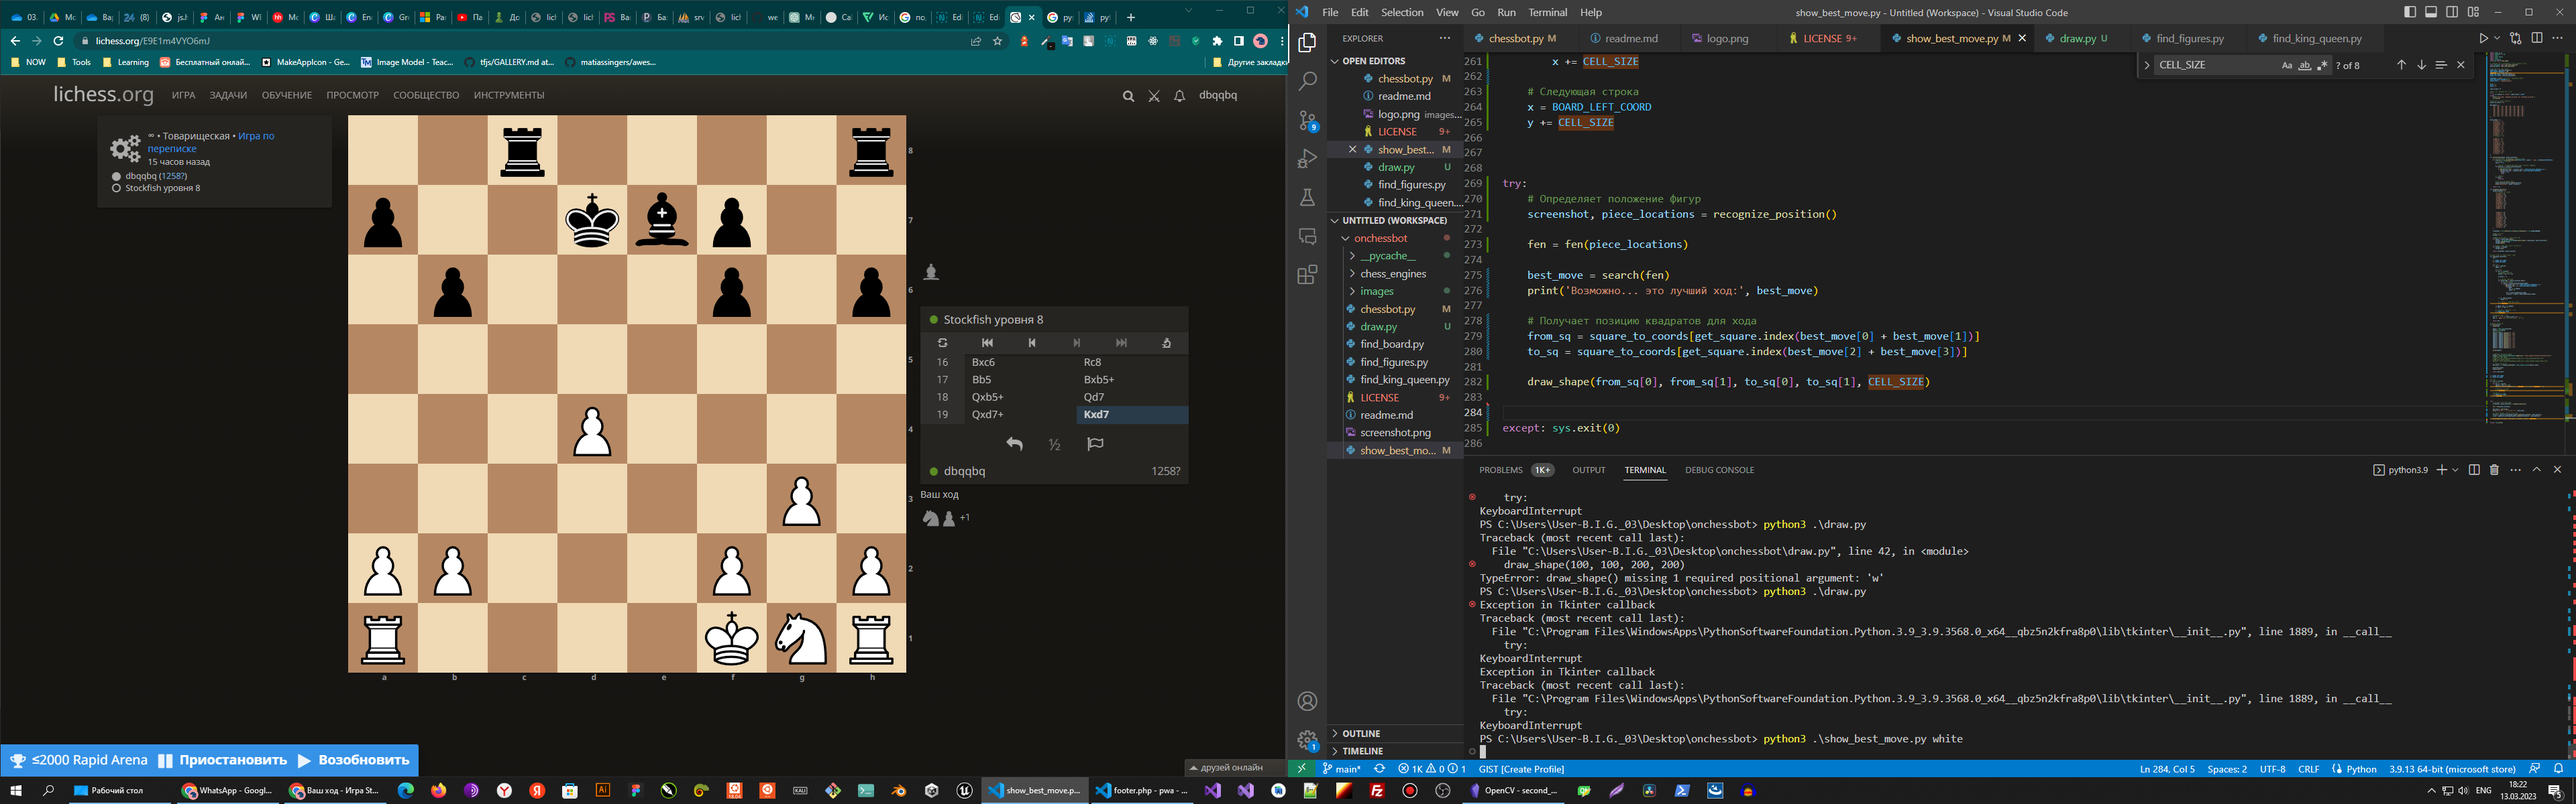
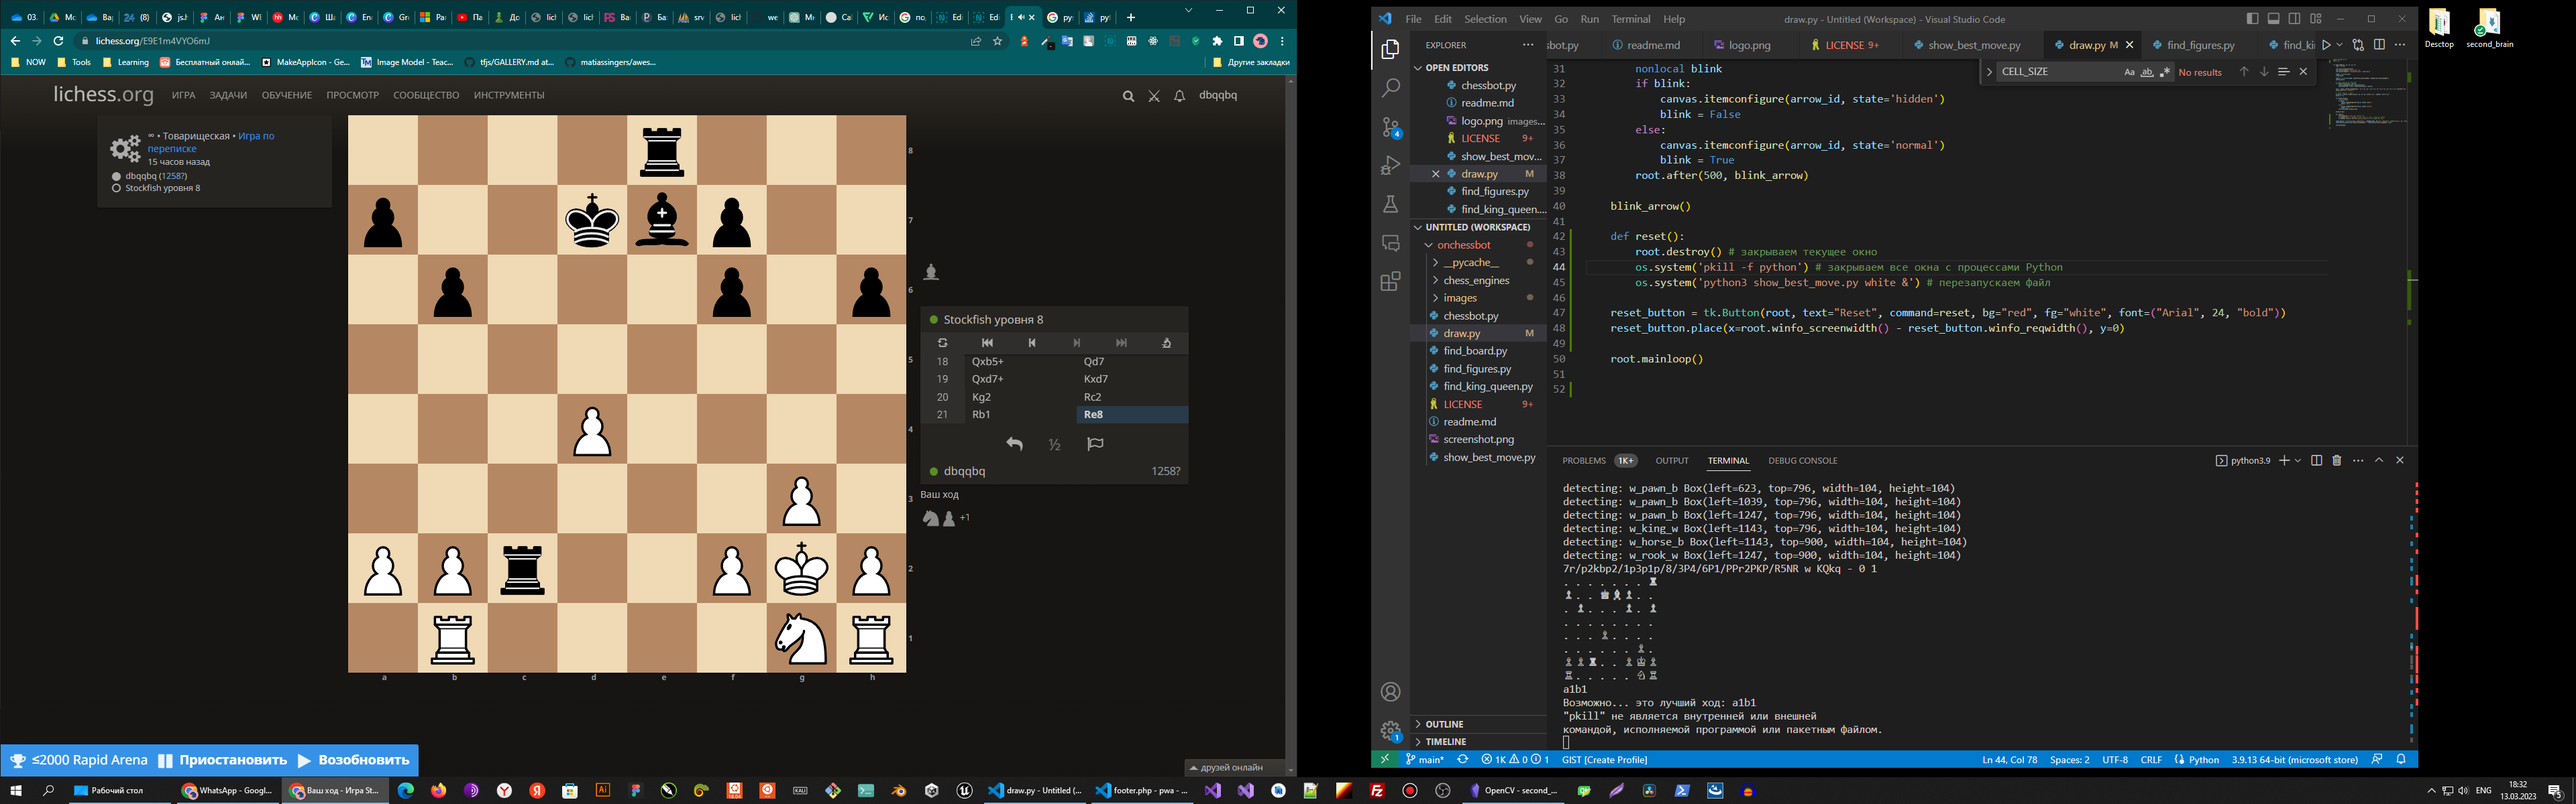
Изменена отрисовка хода

diff --git a/draw.py b/draw.py
@@ -1,4 +1,6 @@
 import tkinter as tk
+import os
+
 
 def draw_shape(x1, y1, x2, y2, w):
     root = tk.Tk()
@@ -37,4 +39,13 @@ def draw_shape(x1, y1, x2, y2, w):
 
     blink_arrow()
 
+    def reset():
+        root.destroy() # закрываем текущее окно
+        os.system('pkill -f python') # закрываем все окна с процессами Python
+        os.system('python3 show_best_move.py white &') # перезапускаем файл
+
+    reset_button = tk.Button(root, text="Reset", command=reset, bg="red", fg="white", font=("Arial", 24, "bold"))
+    reset_button.place(x=root.winfo_screenwidth() - reset_button.winfo_reqwidth(), y=0)
+
     root.mainloop()
+
